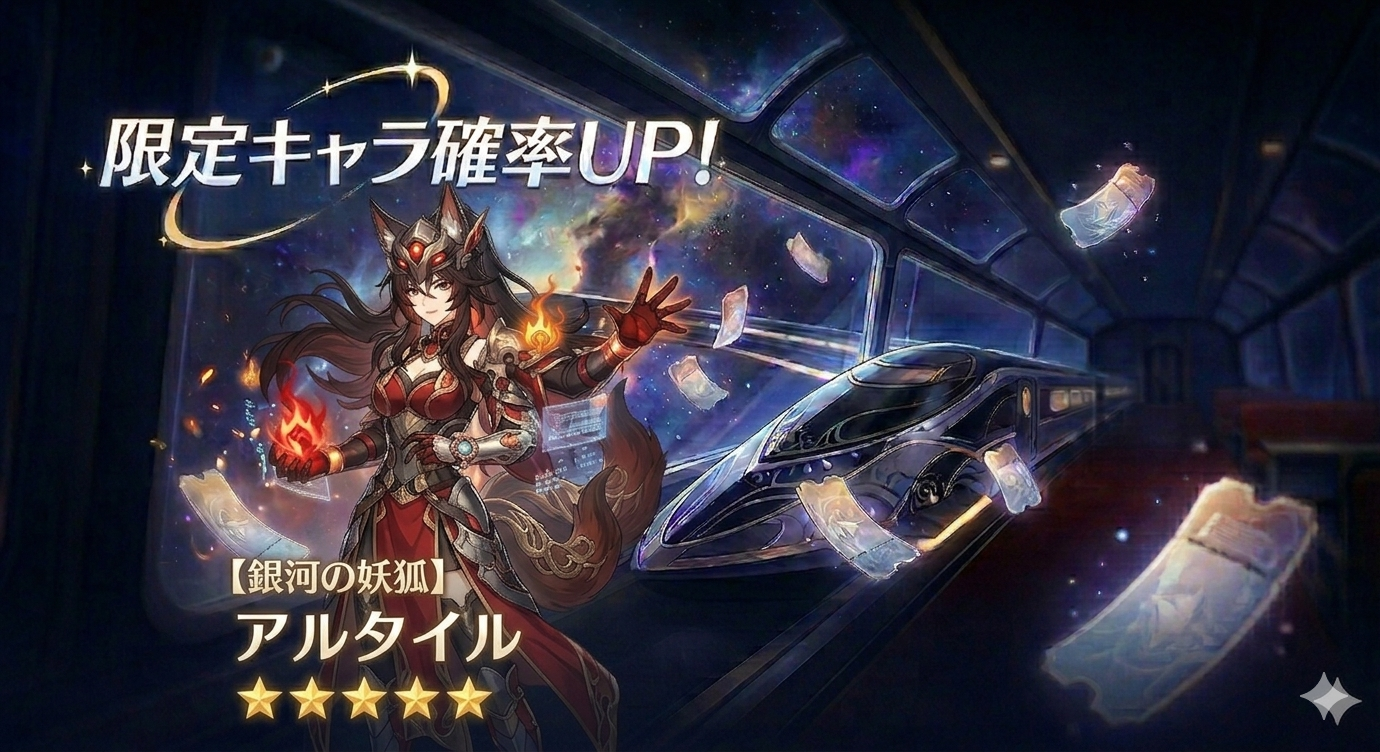
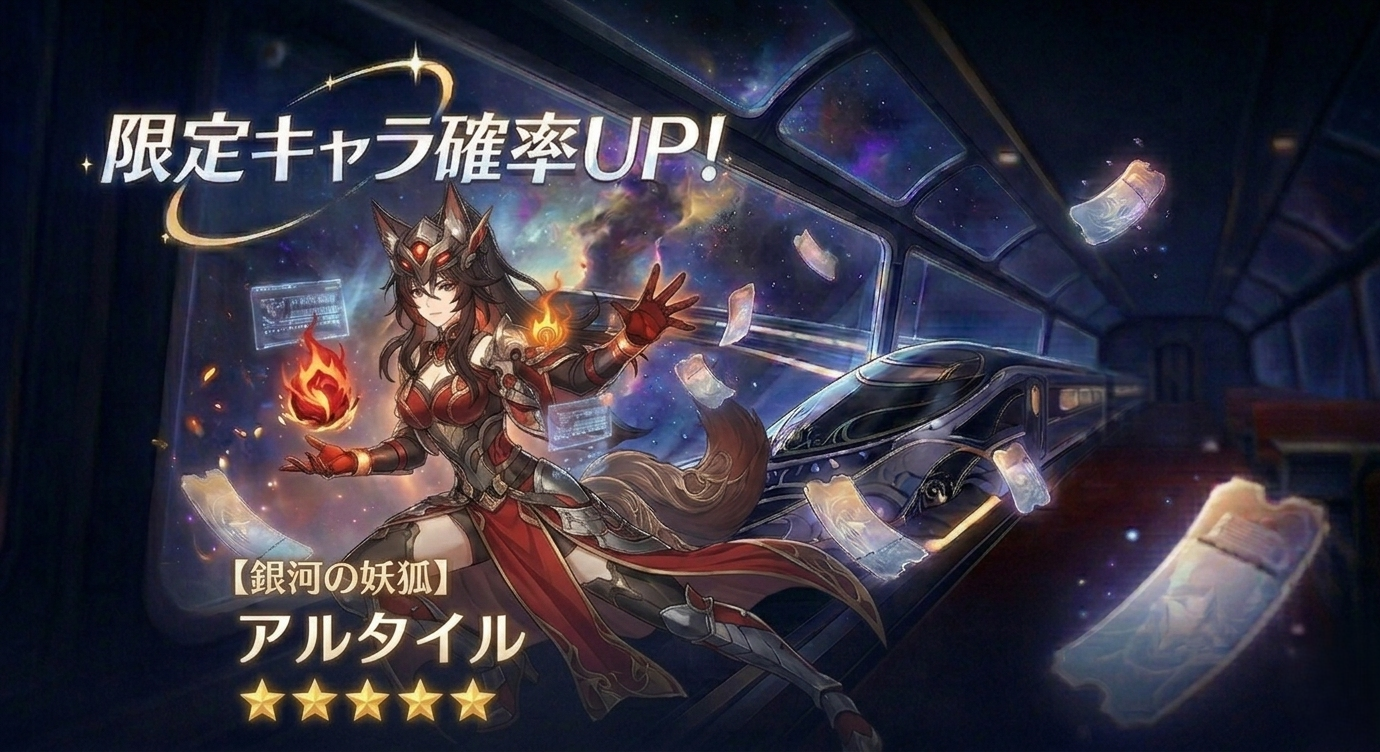
ガチャ演出スキップ追加とその他いろいろ

diff --git a/index.html b/index.html
@@ -21,12 +21,11 @@
         }
 
         body {
-            /* 背景画像（既存のまま） */
+            /* 背景画像：少し引き（110%）にし、中央よりやや左（40%）に配置 */
             background-image: url('image/ガチャタイトル画像.png');
             background-color: #050505;
-            /* 画像がない場合のフォールバック */
-            background-size: cover;
-            background-position: center;
+            background-size: 90% auto;
+            background-position: 40% center;
             background-repeat: no-repeat;
             margin: 0;
             height: 100vh;
@@ -346,6 +345,13 @@
             transform: translateY(20px);
             animation: card-appear 0.5s forwards;
             box-shadow: 0 10px 20px rgba(0, 0, 0, 0.5);
+            cursor: pointer; /* タッチ可能であることを示す */
+            transition: transform 0.2s;
+        }
+
+        .char-card:hover {
+            transform: scale(1.05) translateY(-5px);
+            z-index: 5;
         }
 
         @keyframes card-appear {
@@ -361,8 +367,9 @@
             left: 0;
             width: 100%;
             height: 100%;
-            object-fit: contain;
-            object-position: top;
+            /* 上半身を強調するため、拡大(cover)して上部を基準に配置 */
+            object-fit: cover;
+            object-position: top center;
             z-index: 1;
         }
 
@@ -383,7 +390,8 @@
         }
 
         .stars {
-            font-size: 0.8rem;
+            font-size: 1.1rem;
+            /* 前回の0.8remから大きく */
             letter-spacing: 2px;
         }
 
@@ -468,7 +476,8 @@
 
         #reveal-img {
             position: relative;
-            max-height: 85vh;
+            max-height: 95vh;
+            /* 前回の85vhから大きく */
             filter: brightness(0);
             transition: filter 1s cubic-bezier(0.4, 0, 0.2, 1);
             z-index: 2;
@@ -491,6 +500,34 @@
 
         .revealed #reveal-info {
             opacity: 1;
+        }
+
+        #reveal-stars {
+            font-size: 2.5rem !important;
+            /* 出現時の星を大きく */
+            margin-bottom: 10px;
+        }
+
+        /* スキップボタン */
+        .skip-btn {
+            position: absolute;
+            top: 30px;
+            right: 30px;
+            z-index: 150;
+            padding: 8px 20px;
+            background: rgba(255, 255, 255, 0.1);
+            border: 1px solid rgba(255, 255, 255, 0.5);
+            color: white;
+            border-radius: 4px;
+            cursor: pointer;
+            font-size: 14px;
+            letter-spacing: 2px;
+            transition: 0.3s;
+        }
+
+        .skip-btn:hover {
+            background: rgba(255, 255, 255, 0.2);
+            border-color: white;
         }
     </style>
 </head>
@@ -522,6 +559,7 @@
 
     <!-- ================= 画面2: 演出画面 ================= -->
     <div id="anim-screen">
+        <button class="skip-btn" onclick="skipEffect()">SKIP</button>
         <div class="space-stage" id="star-field"></div>
         <div class="ticket-container">
             <!-- チケット画像 -->
@@ -585,6 +623,8 @@
 
         // --- 2. 状態管理 ---
         let tenPullPityCount = 0; // 10連で星5が出なかった回数をカウント
+        let isAnimationSkipped = false;
+        let activePullResults = [];
 
         // --- 3. ガチャ抽選ロジック ---
 
@@ -710,31 +750,66 @@
                 starField.appendChild(s);
             }
 
+            activePullResults = pullResults;
+            isAnimationSkipped = false;
+
             // --- アニメーション再生 ---
             // 1. チケット舞う
             ticket.classList.add('animate-ticket');
-            await wait(1800);
+            if (await smartWait(1800)) return;
 
             // 2. ワープ加速
             starField.classList.add('warp-active');
-            await wait(800);
+            if (await smartWait(800)) return;
 
             // 3. ポータル爆発
             portal.classList.add('portal-expand');
-            await wait(1200);
+            if (await smartWait(1200)) return;
 
             // 4. ホワイトアウトして結果画面へ
             flash.classList.add('active-whiteout');
-            await wait(600);
+            if (await smartWait(600)) return;
 
             // クリーンアップ
+            finishAnimation();
+        }
+
+        // スキップ対応の待機関数
+        async function smartWait(ms) {
+            return new Promise(resolve => {
+                const check = setInterval(() => {
+                    if (isAnimationSkipped) {
+                        clearInterval(check);
+                        resolve(true); // スキップされた
+                    }
+                }, 50);
+                setTimeout(() => {
+                    clearInterval(check);
+                    resolve(false); // 時間通り終了
+                }, ms);
+            });
+        }
+
+        function skipEffect() {
+            isAnimationSkipped = true;
+            finishAnimation();
+        }
+
+        function finishAnimation() {
+            const animScreen = document.getElementById('anim-screen');
+            const flash = document.getElementById('flash');
+            const ticket = document.getElementById('anim-ticket');
+            const starField = document.getElementById('star-field');
+            const portal = document.getElementById('portal');
+
             animScreen.style.display = 'none';
             ticket.classList.remove('animate-ticket');
             starField.classList.remove('warp-active');
             portal.classList.remove('portal-expand');
+            flash.classList.remove('active-whiteout');
 
             // 新規キャラ演出シーケンスへ
-            startRevealSequence(pullResults);
+            startRevealSequence(activePullResults);
         }
 
         // --- 6. 新規キャラ演出シーケンス ---
@@ -784,8 +859,14 @@
 
         function nextReveal() {
             const screen = document.getElementById('reveal-screen');
-            // シルエット解除前はクリック無効（お好みで即時解除も可能）
             if (!screen.classList.contains('revealed')) return;
+
+            // プレビューモード（リザルトからの個別表示）の場合は閉じるだけ
+            if (screen.classList.contains('preview-mode')) {
+                screen.style.display = 'none';
+                screen.classList.remove('preview-mode');
+                return;
+            }
 
             currentRevealIndex++;
             if (currentRevealIndex < revealQueue.length) {
@@ -796,6 +877,26 @@
                 screen.style.display = 'none';
                 showResultScreen(pendingResults);
             }
+        }
+
+        // リザルト画面から個別に詳細を表示する関数
+        function showCharacterDetail(item) {
+            const screen = document.getElementById('reveal-screen');
+            const img = document.getElementById('reveal-img');
+            const nameEl = document.getElementById('reveal-name');
+            const starsEl = document.getElementById('reveal-stars');
+
+            img.src = item.data.img;
+            nameEl.innerText = item.data.name;
+            let starStr = "";
+            for (let i = 0; i < item.rarity; i++) starStr += "✦";
+            starsEl.innerText = starStr;
+            starsEl.className = `stars star${item.rarity}`;
+
+            // 即座に表示（シルエットなし・フラグセット）
+            screen.classList.add('revealed');
+            screen.classList.add('preview-mode');
+            screen.style.display = 'flex';
         }
 
         // --- 7. 結果画面の構築 ---
@@ -824,6 +925,9 @@
                         <div class="stars star${item.rarity}">${starsHTML}</div>
                     </div>
                 `;
+                // クリック時に詳細表示（全身表示）
+                card.onclick = () => showCharacterDetail(item);
+
                 container.appendChild(card);
             });
 
